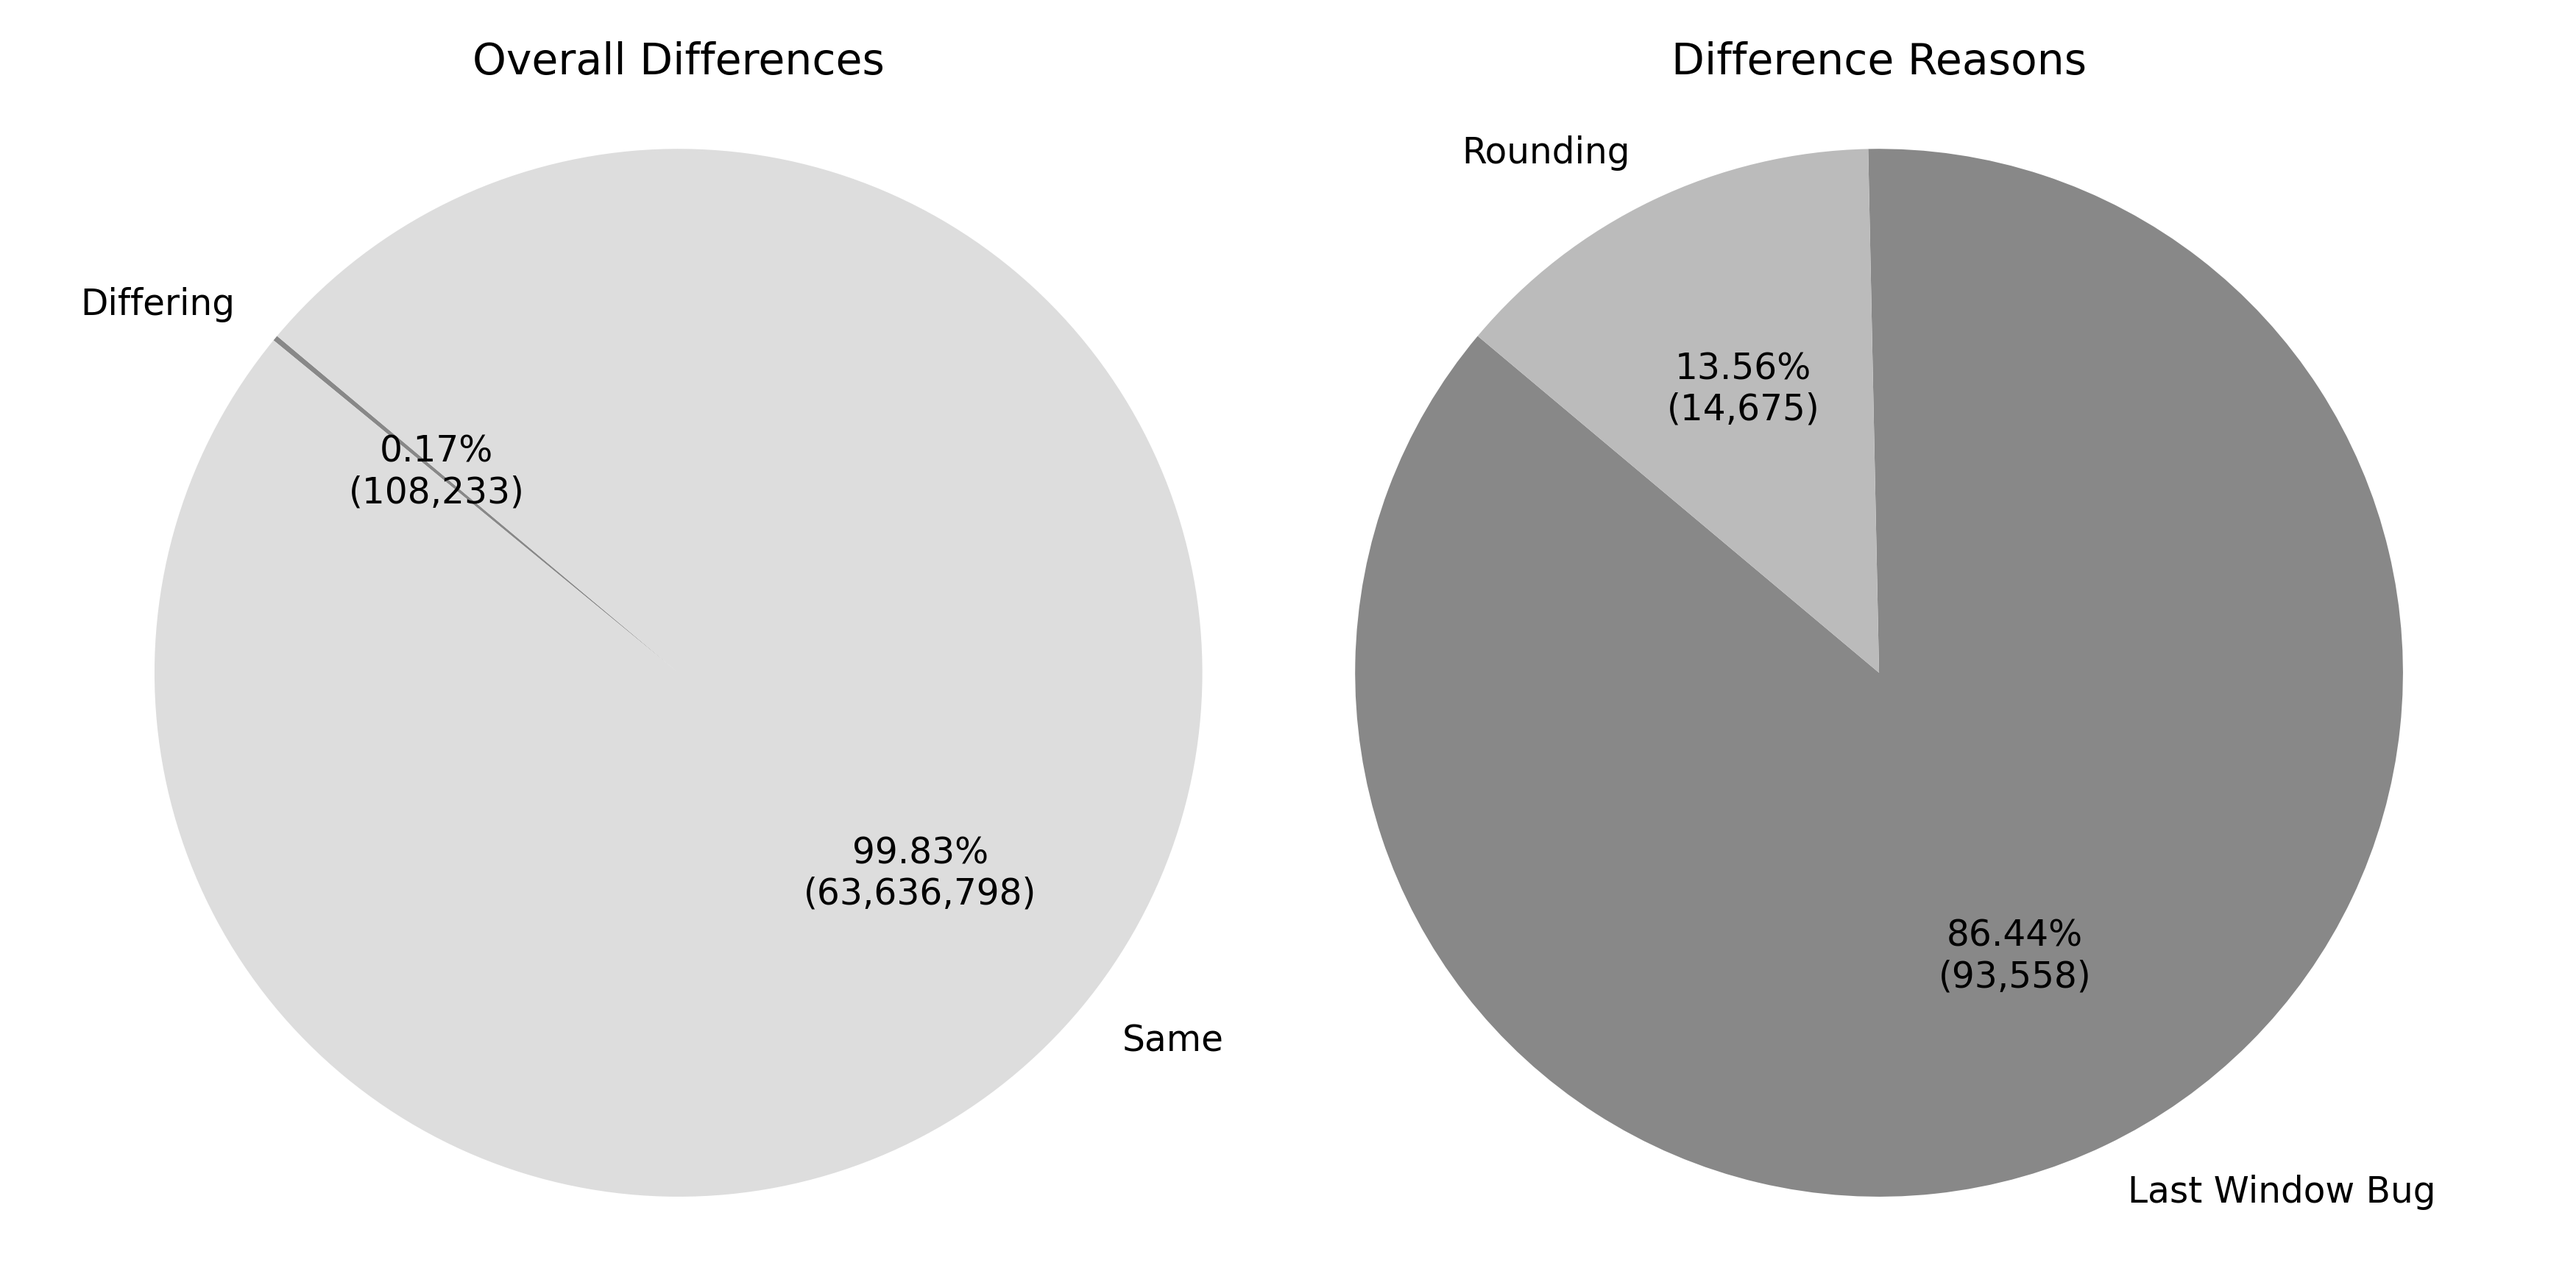
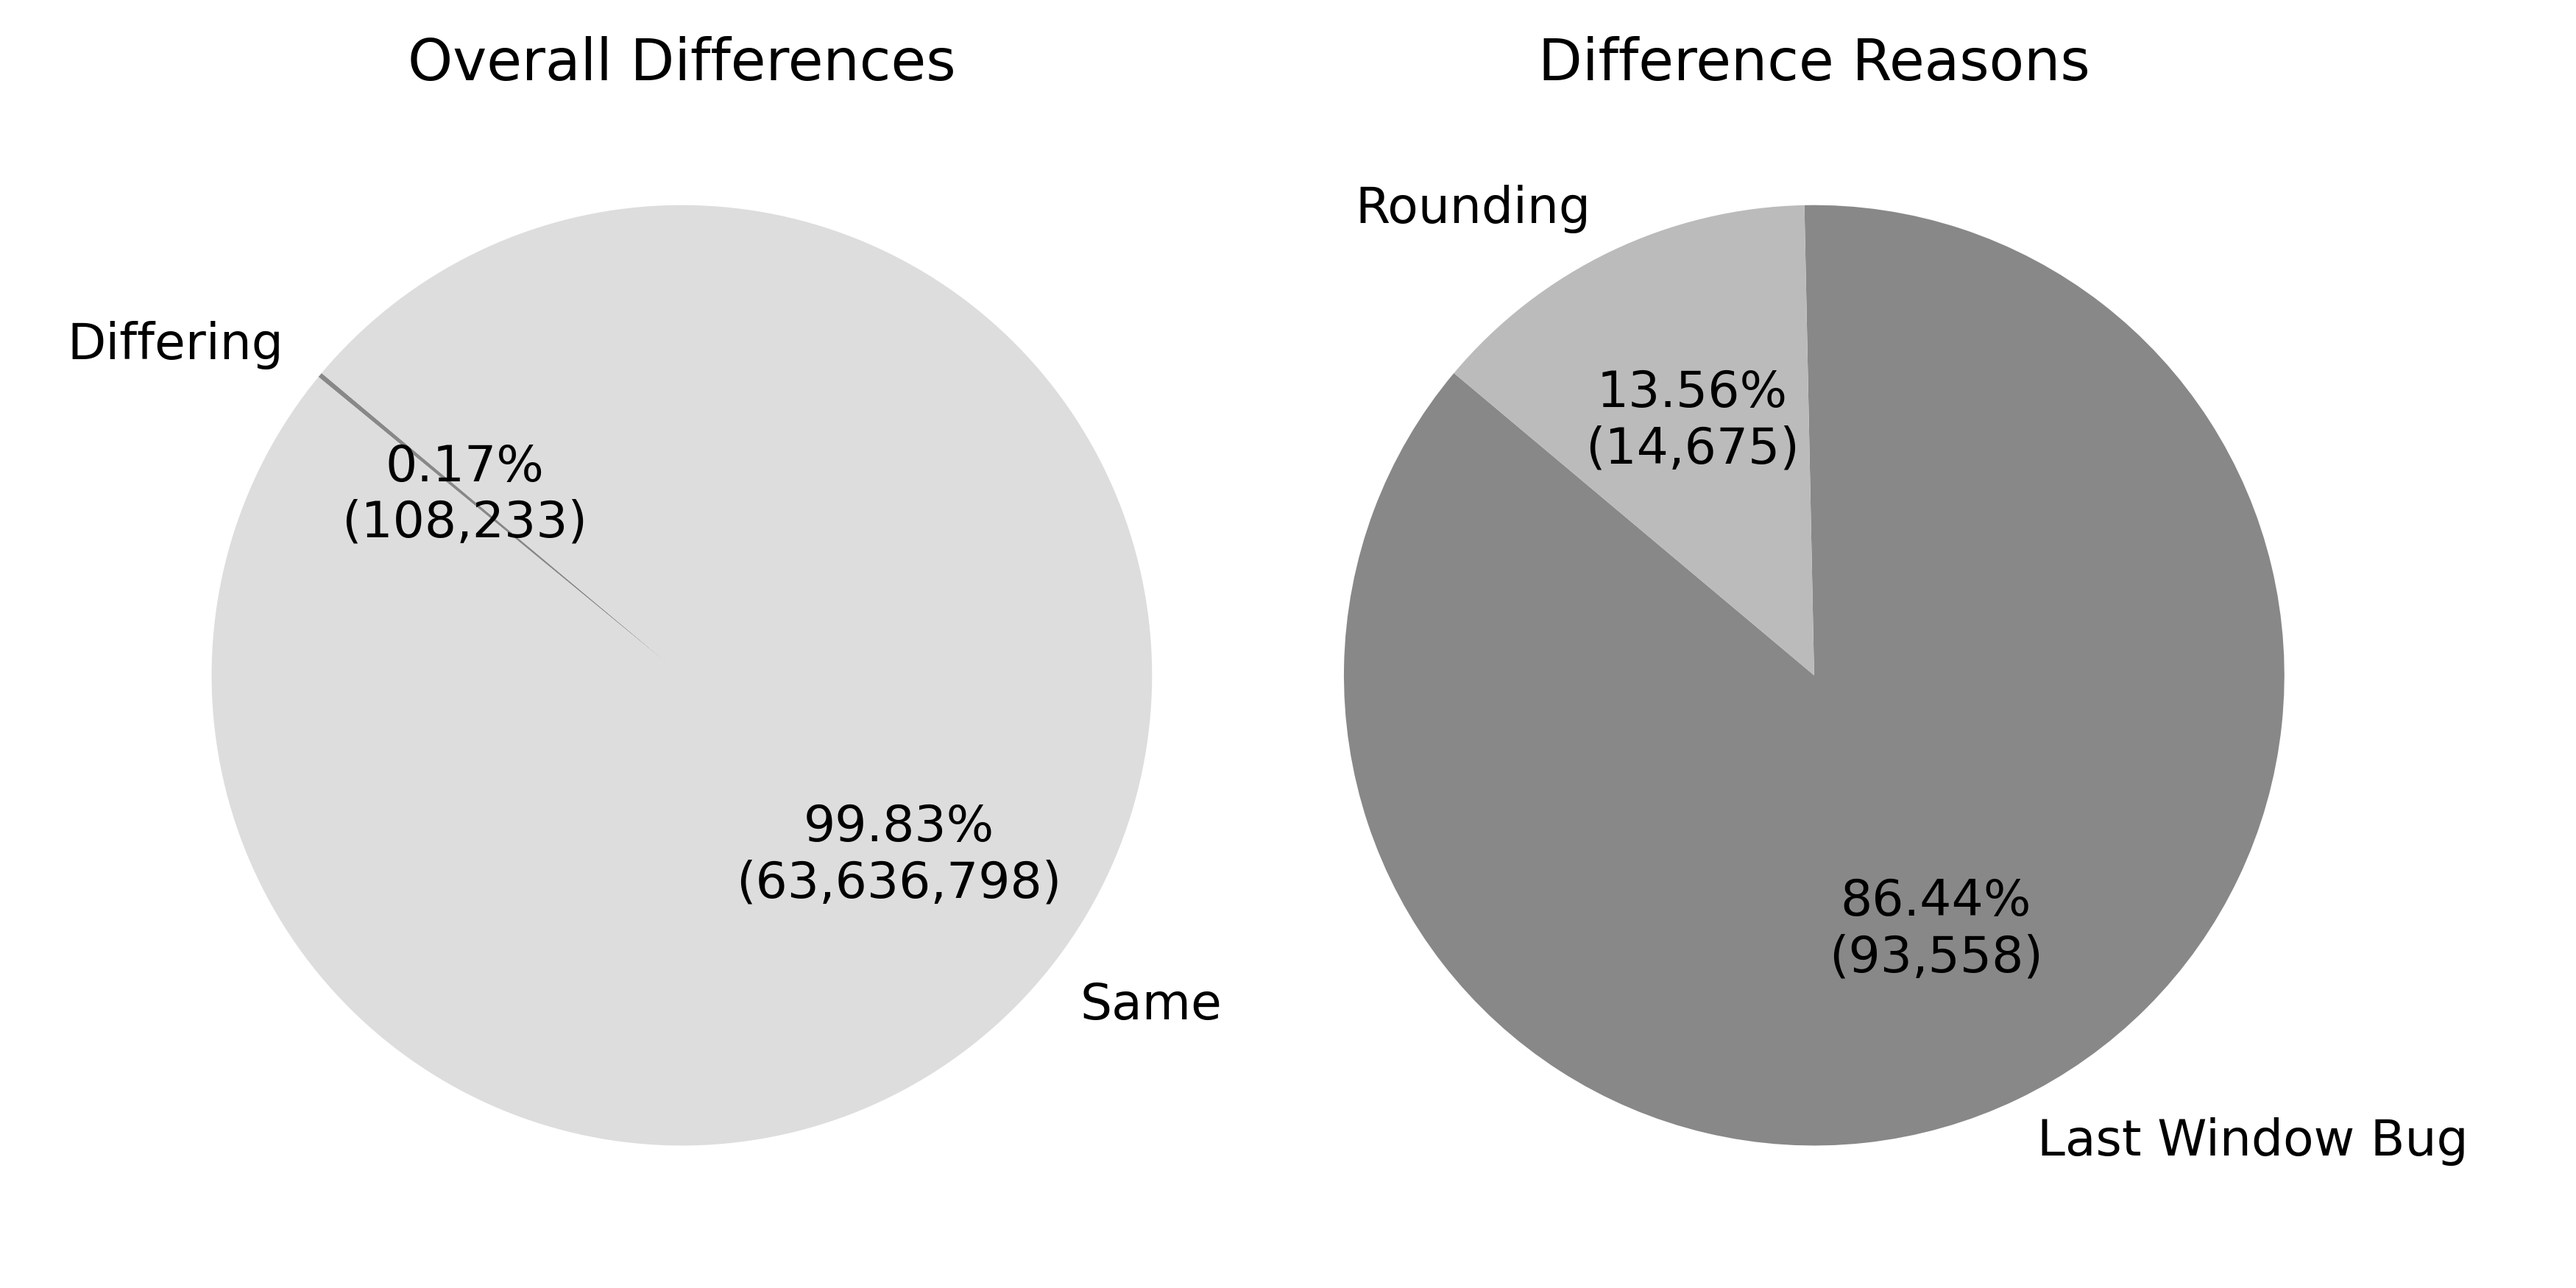
Increased text size for benchmark differences figure

diff --git a/scripts/6.3_visualize_diffs.py b/scripts/6.3_visualize_diffs.py
@@ -40,13 +40,13 @@ if other > 0:
     labels2.append('Other')
     sizes2.append(other)
 ax1.pie(sizes, labels=labels, colors=colors, autopct=make_autopct(sizes),
-    shadow=False, startangle=140)
+    shadow=False, startangle=140, textprops={'fontsize': 14})
 ax1.axis('equal')
-ax1.set_title("Overall Differences")
+ax1.set_title("Overall Differences", fontsize=16)
 ax2.pie(sizes2, labels=labels2, colors=colors2, autopct=make_autopct(sizes2),
-    shadow=False, startangle=140)
+    shadow=False, startangle=140, textprops={'fontsize': 14})
 ax2.axis('equal')
-ax2.set_title("Difference Reasons")
+ax2.set_title("Difference Reasons", fontsize=16)
 plt.tight_layout()
 # plt.show()
 plt.savefig(outpath, dpi=350)
